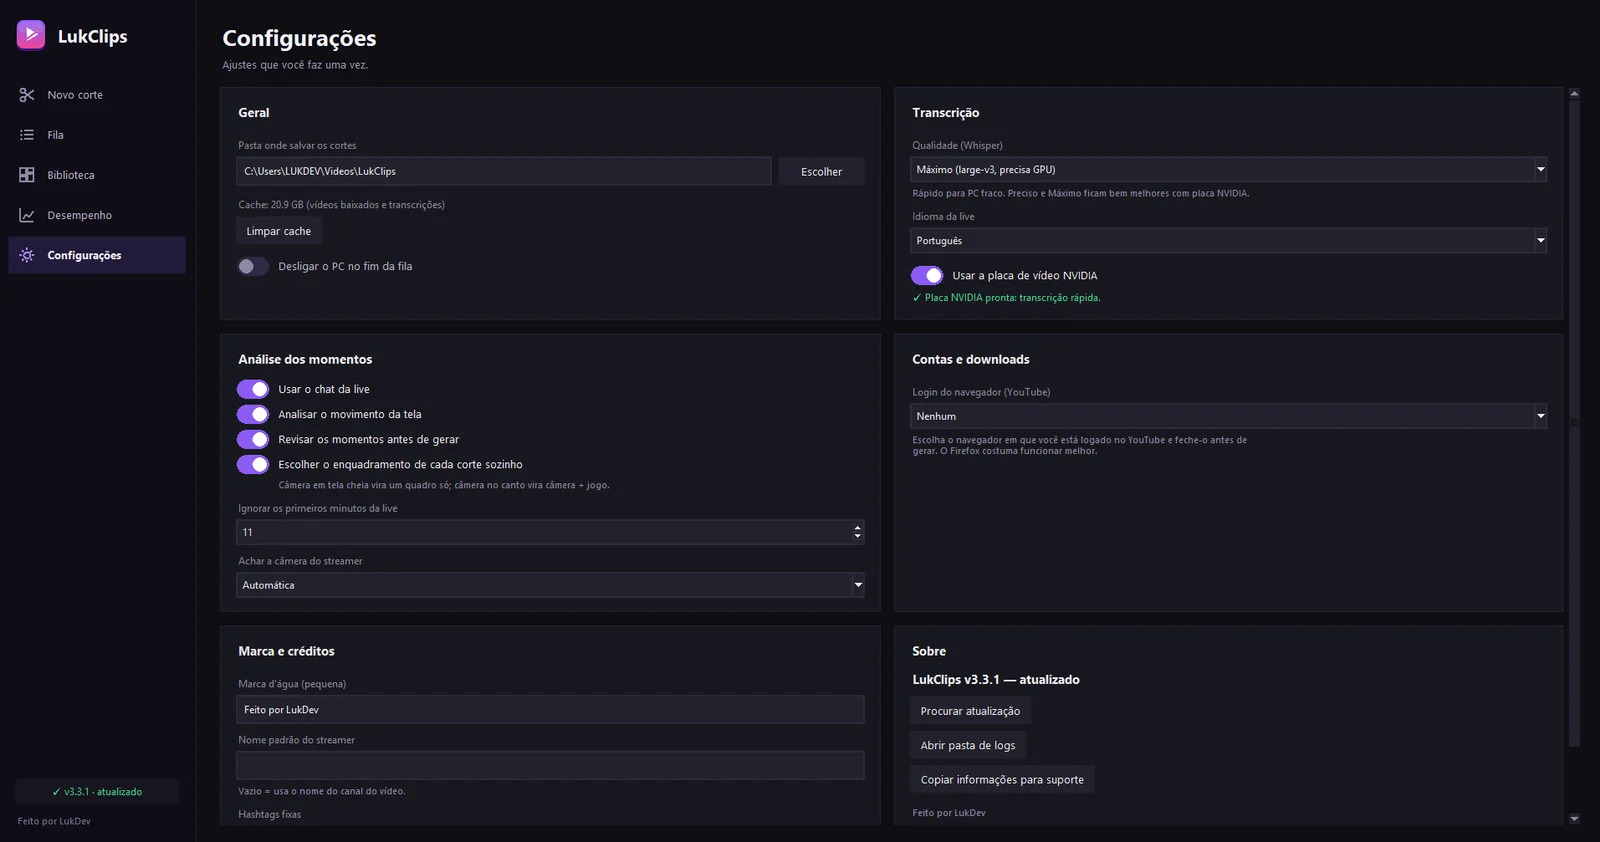
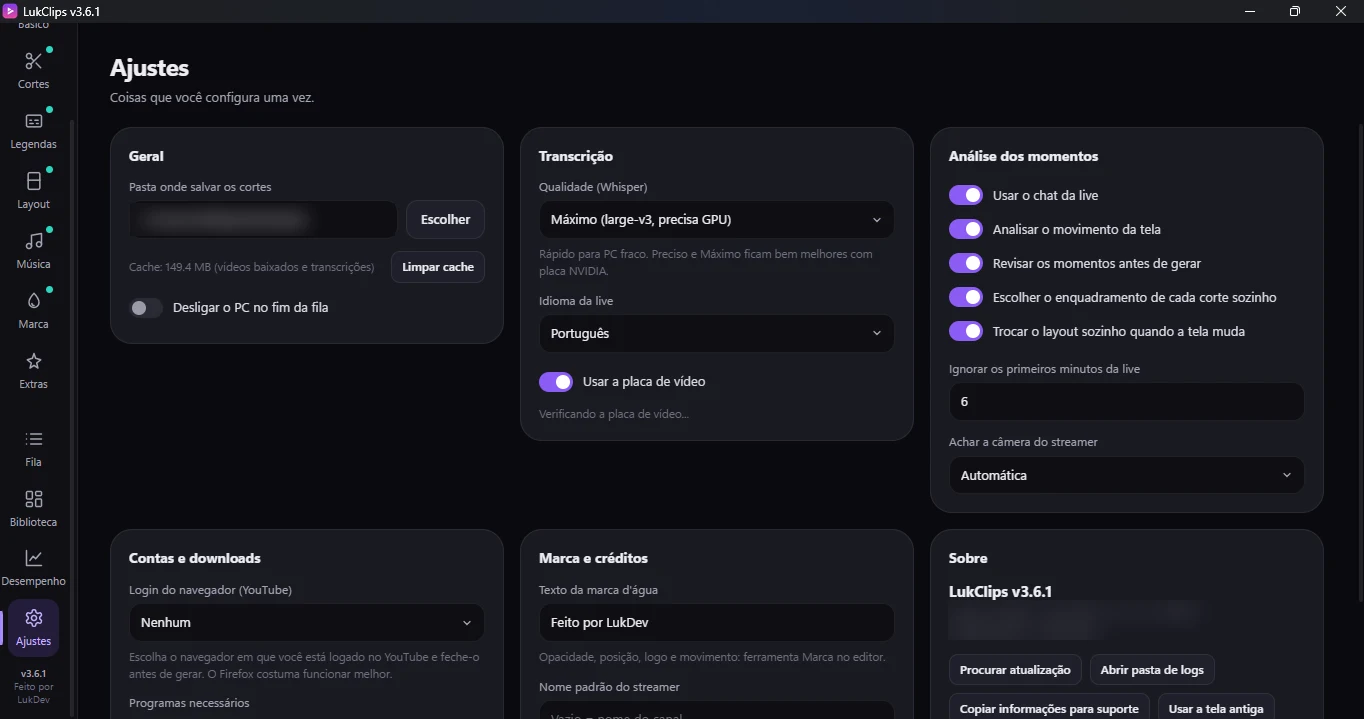
Novas telas do site

diff --git a/docs/index.html b/docs/index.html
@@ -404,7 +404,7 @@ footer a{text-decoration:none}footer a:hover{color:var(--ink)}
     <h2>Simples de usar. Completo quando você precisa.</h2>
     <div class="tabs" role="tablist" id="tabs"></div>
     <div class="shot">
-      <div class="win"><div class="top"><i></i><i></i><i></i></div><img id="shotImg" src="img/novo-corte.webp" alt="" width="1130" height="1003"></div>
+      <div class="win"><div class="top"><i></i><i></i><i></i></div><img id="shotImg" src="img/novo-corte.webp" alt="" width="1363" height="715"></div>
       <div><h3 id="shotT"></h3><p id="shotP"></p><ul id="shotL"></ul></div>
     </div>
   </div>
@@ -432,24 +432,26 @@ footer a{text-decoration:none}footer a:hover{color:var(--ink)}
         <div>
           <div class="ico"><svg viewBox="0 0 24 24" fill="none" stroke="currentColor" stroke-width="2"><rect x="6" y="2" width="12" height="20" rx="2"/><path d="M6 10h12"/></svg></div>
           <h3>Enquadramento automático</h3>
-          <p>Acha a câmera do streamer sozinho e escolhe o layout de cada corte: câmera em tela cheia vira um quadro só; câmera no canto vira câmera + jogo. Ou fixe você: em cima, 40/60, embaixo ou sem câmera.</p>
-          <p>Cinco estilos de legenda com prévia ao vivo, e duração Auto, Curtos, Médios, Longos, 30s ou 60s.</p>
+          <p>Acha a câmera do streamer sozinho e escolhe o layout de cada corte: câmera em tela cheia vira um quadro só; câmera no canto vira câmera + jogo. Se a tela muda no meio do corte, o layout troca junto. No react, o recorte de baixo segue o vídeo que o streamer está assistindo.</p>
+          <p>8 formatos de tela (9:16, 4:5, 1:1, 16:9 e mais), 10 estilos de legenda, 8 efeitos e duração automática ou do tamanho exato que você quiser.</p>
         </div>
-        <img src="img/estilos.webp" alt="Opções de quantidade de cortes, duração, layout e estilo de legenda no LukClips" width="655" height="394" loading="lazy">
+        <img src="img/estilos.webp" alt="Ferramentas Básico e Legendas do LukClips: formatos de tela, velocidade, estilos e efeitos de legenda" width="791" height="681" loading="lazy">
       </div>
-      <div class="ft"><div class="ico"><svg viewBox="0 0 24 24" fill="none" stroke="currentColor" stroke-width="2"><path d="M4 6h16M4 12h10M4 18h13"/></svg></div><h3>Legenda palavra por palavra</h3><p>Transcrição automática com destaque na palavra falada, no estilo que viraliza no TikTok e Reels. Dá pra editar antes de gerar.</p></div>
+      <div class="ft"><div class="ico"><svg viewBox="0 0 24 24" fill="none" stroke="currentColor" stroke-width="2"><path d="M4 6h16M4 12h10M4 18h13"/></svg></div><h3>Legenda palavra por palavra</h3><p>Transcrição automática com destaque na palavra falada. Efeitos Pop, Karaokê, Caixa, Neon e mais, com fonte, cores, tamanho e posição do seu jeito. Dá pra corrigir cada fala antes de gerar.</p></div>
       <div class="ft big">
         <div>
           <div class="ico"><svg viewBox="0 0 24 24" fill="none" stroke="currentColor" stroke-width="2"><rect x="3" y="7" width="18" height="10" rx="2"/><path d="M7 7V4M12 7V4M17 7V4M7 20v-3M12 20v-3M17 20v-3"/></svg></div>
           <h3>Whisper large-v3 com placa NVIDIA</h3>
           <p>Escolha entre Rápido, Preciso e Máximo. Com placa NVIDIA, a transcrição fica muito mais rápida e precisa. Sem placa também funciona.</p>
         </div>
-        <img src="img/transcricao.webp" alt="Configuração de transcrição com Whisper e placa NVIDIA" width="801" height="280" loading="lazy">
+        <img src="img/transcricao.webp" alt="Configuração de transcrição com Whisper e placa de vídeo" width="396" height="314" loading="lazy">
       </div>
       <div class="ft"><div class="ico"><svg viewBox="0 0 24 24" fill="none" stroke="currentColor" stroke-width="2"><path d="M8 6h13M8 12h13M8 18h13M3 6h.01M3 12h.01M3 18h.01"/></svg></div><h3>Fila + desligar o PC</h3><p>Coloca várias lives na fila antes de dormir e marca pra desligar o computador no fim. Acorda com os cortes prontos.</p></div>
       <div class="ft"><div class="ico"><svg viewBox="0 0 24 24" fill="none" stroke="currentColor" stroke-width="2"><circle cx="11" cy="11" r="7"/><path d="M21 21l-4-4M11 8v6M8 11h6"/></svg></div><h3>Zoom no pico e corte de silêncio</h3><p>Zoom automático na hora da reação, remove os silêncios mortos e adiciona barra de progresso pra segurar a retenção.</p></div>
       <div class="ft"><div class="ico"><svg viewBox="0 0 24 24" fill="none" stroke="currentColor" stroke-width="2"><path d="M5 4h4l2 5-2.5 1.5a11 11 0 005 5L15 13l5 2v4a2 2 0 01-2 2A16 16 0 013 6a2 2 0 012-2"/></svg></div><h3>Pula a abertura da live</h3><p>Ignora os primeiros minutos (tela de espera, "começa já já") pra não gastar corte com nada.</p></div>
-      <div class="ft"><div class="ico"><svg viewBox="0 0 24 24" fill="none" stroke="currentColor" stroke-width="2"><path d="M4 7V4h16v3M9 20h6M12 4v16"/></svg></div><h3>Sua marca em cada corte</h3><p>Marca d'água pequena com o seu nome, nome padrão do streamer e hashtags fixas que entram em todo post.</p></div>
+      <div class="ft"><div class="ico"><svg viewBox="0 0 24 24" fill="none" stroke="currentColor" stroke-width="2"><path d="M4 7V4h16v3M9 20h6M12 4v16"/></svg></div><h3>Sua marca em cada corte</h3><p>Marca d'água em texto ou logo, com opacidade, tamanho, posição e movimento (fixa, troca de canto ou flutuando) pra ninguém repostar sem crédito. Mais hashtags fixas em todo post.</p></div>
+      <div class="ft"><div class="ico"><svg viewBox="0 0 24 24" fill="none" stroke="currentColor" stroke-width="2"><path d="M9 18V5l12-2v13"/><circle cx="6" cy="18" r="3"/><circle cx="18" cy="16" r="3"/></svg></div><h3>Cortes de música</h3><p>Acha os refrões e as partes mais fortes, corta na batida, com fade e visual do som. Funciona com link, vídeo ou MP3 do PC.</p></div>
+      <div class="ft"><div class="ico"><svg viewBox="0 0 24 24" fill="none" stroke="currentColor" stroke-width="2"><path d="M9 11l3 3L22 4"/><path d="M21 12v7a2 2 0 01-2 2H5a2 2 0 01-2-2V5a2 2 0 012-2h11"/></svg></div><h3>Revisão com linha do tempo</h3><p>Assista cada momento antes de gerar, arraste as bordas pra ajustar, divida um corte em dois e escolha o enquadramento de cada um.</p></div>
       <div class="ft"><div class="ico"><svg viewBox="0 0 24 24" fill="none" stroke="currentColor" stroke-width="2"><rect x="3" y="3" width="7" height="7"/><rect x="14" y="3" width="7" height="7"/><rect x="3" y="14" width="7" height="7"/><rect x="14" y="14" width="7" height="7"/></svg></div><h3>Biblioteca organizada</h3><p>Todos os cortes com miniatura, filtro por streamer e por postado ou não postado. Nunca mais posta repetido.</p></div>
       <div class="ft"><div class="ico"><svg viewBox="0 0 24 24" fill="none" stroke="currentColor" stroke-width="2"><path d="M21 12a9 9 0 11-3-6.7L21 8M21 3v5h-5"/></svg></div><h3>Atualização automática</h3><p>Novas versões chegam direto no programa. Um clique e você está na última versão.</p></div>
     </div>
@@ -755,14 +757,14 @@ const ro = new ResizeObserver(draw); ro.observe(svg);
 
 /* ===== telas ===== */
 const SHOTS = [
-  {t: "Novo corte", img: "img/novo-corte.webp", w: 1130, h: 1003, p: "Cole o link, escolha o estilo e gere. A prévia muda na hora quando você troca a legenda ou o layout.",
-   l: ["Quantidade de cortes e duração (Auto, Curtos, Médios, Longos, 30s, 60s)", "Layout: câmera em cima, 40/60, embaixo ou sem câmera", "5 estilos de legenda com prévia ao vivo", "Barra de progresso, zoom no pico, cortar silêncios, revisar antes de gerar"]},
-  {t: "Biblioteca", img: "img/biblioteca.webp", w: 1600, h: 839, p: "Todos os cortes gerados, com miniatura, prontos pra postar.",
+  {t: "Novo corte", img: "img/novo-corte.webp", w: 1363, h: 715, p: "Cole o link, escolha as ferramentas do lado e gere. A prévia muda na hora e a linha do tempo mostra o mapa de calor, o chat e cada corte.",
+   l: ["Cortes de live/fala ou de música, com foco nos melhores momentos ou no streamer falando", "Duração automática ou do tamanho exato (de 5s a 10 min)", "8 formatos de tela, velocidade e volume", "Legendas com 10 estilos e 8 efeitos, marca d'água e ações rápidas"]},
+  {t: "Biblioteca", img: "img/biblioteca.webp", w: 1363, h: 719, p: "Todos os cortes gerados, com miniatura, prontos pra postar.",
    l: ["Filtro por streamer", "Separação entre postados e não postados", "Botão Postar: copia título e hashtags e abre o envio", "Acesso direto à pasta de cada corte"]},
-  {t: "Desempenho", img: "img/desempenho.webp", w: 1600, h: 838, p: "Anote as views dos cortes postados e o LukClips aprende o que dá certo com cada streamer.",
+  {t: "Desempenho", img: "img/desempenho.webp", w: 1361, h: 713, p: "Anote as views dos cortes postados e o LukClips aprende o que dá certo com cada streamer.",
    l: ["Histórico de todos os cortes por data e streamer", "Dois cliques pra digitar as views", "Com 6+ cortes anotados do mesmo streamer, ajusta as prioridades"]},
-  {t: "Configurações", img: "img/configuracoes.webp", w: 1600, h: 842, p: "Ajustes que você faz uma vez e esquece.",
-   l: ["Liga e desliga cada sinal: chat, movimento da tela", "Ignorar os primeiros minutos da live", "Qualidade do Whisper e uso da placa NVIDIA", "Marca d'água, nome do streamer e hashtags fixas", "Login do navegador para vídeos do YouTube que pedem conta"]}
+  {t: "Ajustes", img: "img/configuracoes.webp", w: 1364, h: 719, p: "Ajustes que você faz uma vez e esquece.",
+   l: ["Liga e desliga cada sinal: chat, movimento da tela", "Troca de layout automática e câmera achada sozinha", "Ignorar os primeiros minutos da live", "Qualidade do Whisper e uso da placa de vídeo", "Login do navegador para vídeos do YouTube que pedem conta"]}
 ];
 const tabs = document.getElementById("tabs"), img = document.getElementById("shotImg");
 tabs.innerHTML = SHOTS.map((s, i) => `<button class="tab" role="tab" id="tab-${i}" aria-selected="${i === 0}" data-i="${i}">${s.t}</button>`).join("");
